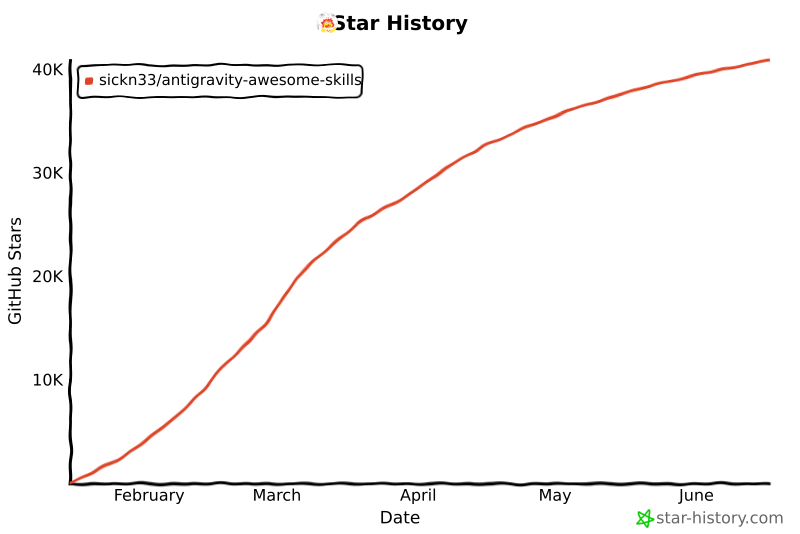
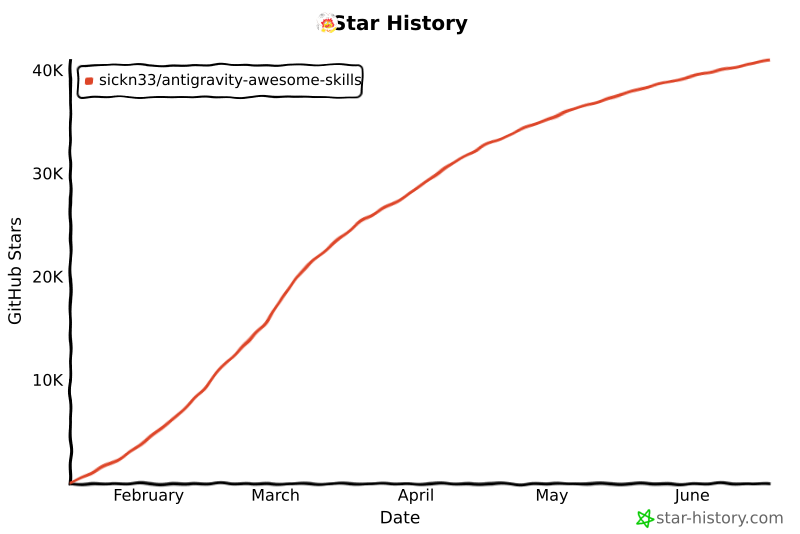
chore: update star history chart

diff --git a/README.md b/README.md
@@ -491,14 +491,14 @@ We officially thank the following contributors for their help in making this rep
 ## Star History
 
 <a href="https://www.star-history.com/#sickn33/antigravity-awesome-skills&type=date&legend=top-left">
- <img alt="Star History Chart" src="https://api.star-history.com/svg?repos=sickn33/antigravity-awesome-skills&type=date&legend=top-left&cache_bust=202606171102" />
+ <img alt="Star History Chart" src="https://api.star-history.com/svg?repos=sickn33/antigravity-awesome-skills&type=date&legend=top-left&cache_bust=202606181025" />
 </a>
 
 <a href="https://www.star-history.com/sickn33/antigravity-awesome-skills">
  <picture>
-   <source media="(prefers-color-scheme: dark)" srcset="https://api.star-history.com/chart?repos=sickn33/antigravity-awesome-skills&style=landscape1&theme=dark&cache_bust=202606171102" />
-   <source media="(prefers-color-scheme: light)" srcset="https://api.star-history.com/chart?repos=sickn33/antigravity-awesome-skills&style=landscape1&cache_bust=202606171102" />
-   <img alt="Star History Chart" src="https://api.star-history.com/chart?repos=sickn33/antigravity-awesome-skills&style=landscape1&cache_bust=202606171102" />
+   <source media="(prefers-color-scheme: dark)" srcset="https://api.star-history.com/chart?repos=sickn33/antigravity-awesome-skills&style=landscape1&theme=dark&cache_bust=202606181025" />
+   <source media="(prefers-color-scheme: light)" srcset="https://api.star-history.com/chart?repos=sickn33/antigravity-awesome-skills&style=landscape1&cache_bust=202606181025" />
+   <img alt="Star History Chart" src="https://api.star-history.com/chart?repos=sickn33/antigravity-awesome-skills&style=landscape1&cache_bust=202606181025" />
  </picture>
 </a>
 
